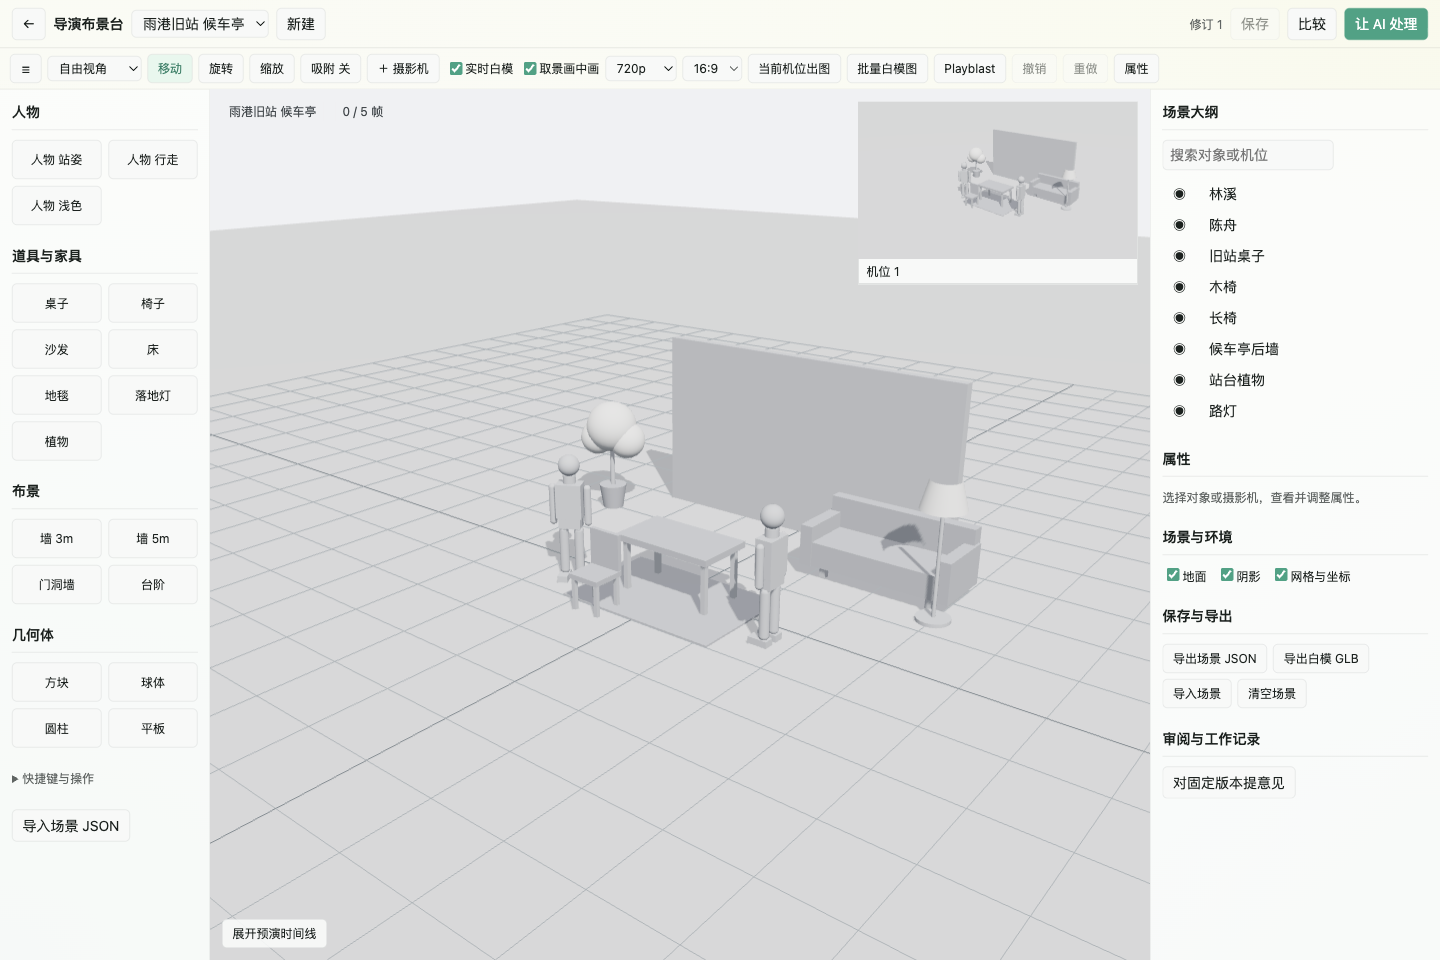
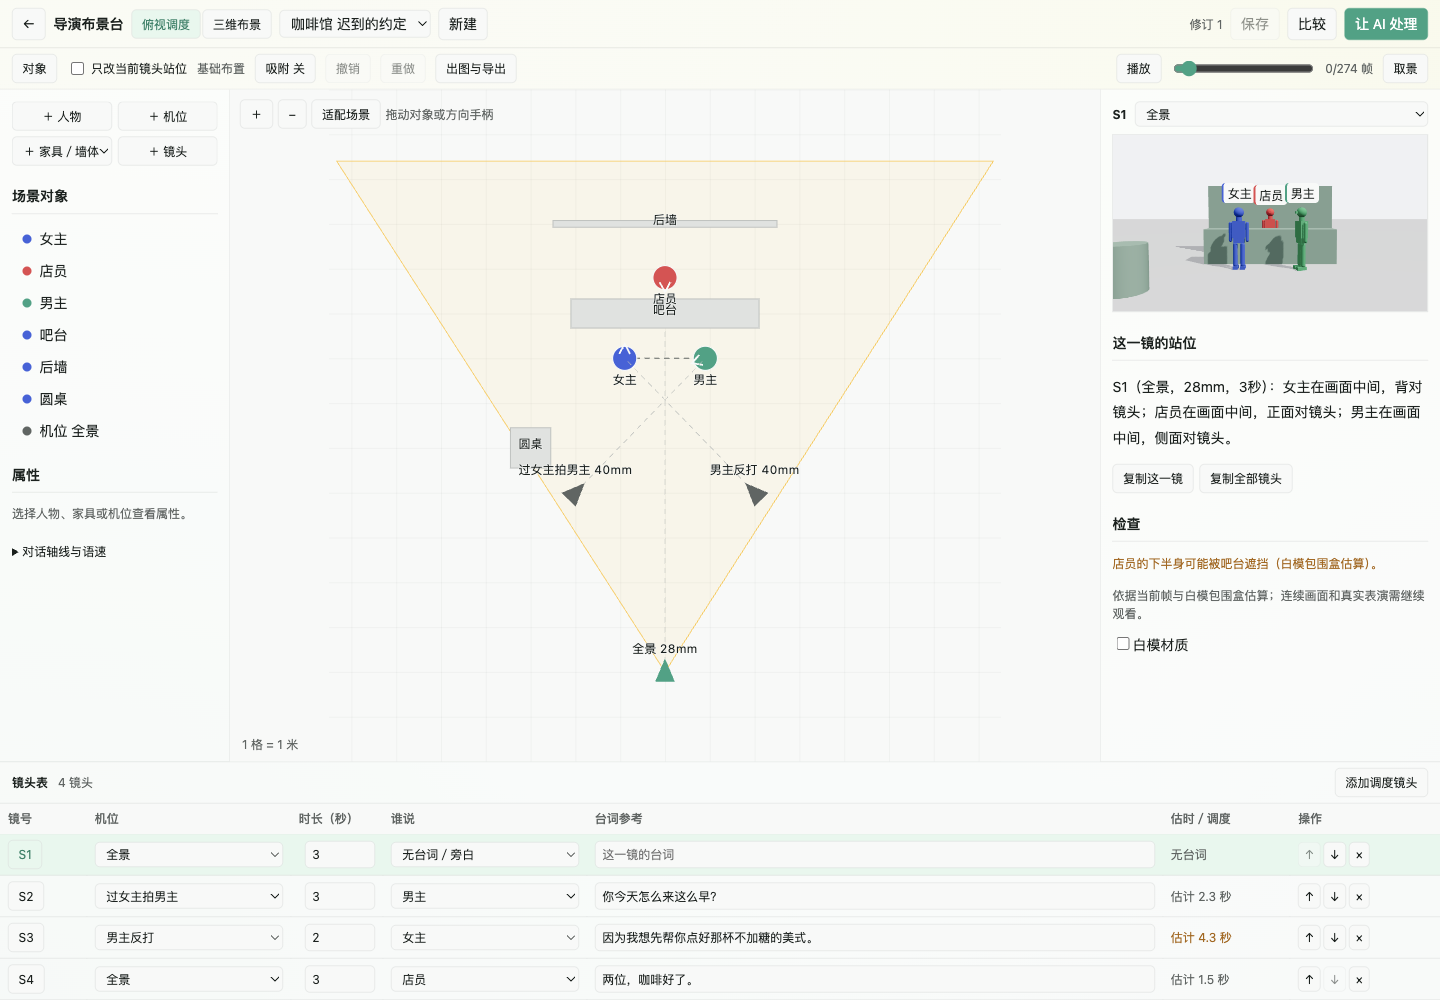
docs: publish Director Stage v0.2.0 in plugin center

diff --git a/apps/website/src/lib/plugins.ts b/apps/website/src/lib/plugins.ts
@@ -43,10 +43,10 @@ const editorial = [
   },
   {
     slug: 'director-stage', category: 'video',
-    summary: { 'zh-CN': '让 Agent 布置人物、家具与机位，用三维白模看清空间、构图和镜头节奏。', en: 'Ask your Agent to arrange people, props and cameras, then inspect space, framing and pacing in 3D previs.' },
+    summary: { 'zh-CN': '在同一场景联动俯视调度、三维取景和镜头台词，由 Agent 安排逐镜走位与节奏。', en: 'Connect a floor plan, 3D framing and shot dialogue in one scene; ask your Agent to arrange blocking and pacing per shot.' },
     use: { 'zh-CN': '对白走位、场景布置、机位比较、白模预演与工程参考', en: 'Dialogue blocking, set layout, camera comparisons, previs and reusable scene projects' },
-    request: { 'zh-CN': '重新发现河图已安装的导演布景台及当前作品能力，读取同包Skill、已有场景与固定来源。按我的目标安排人物站位、家具、机位、关键帧和镜头切换，保存后回读。固定计划并输出真实白模图、预演和可接续场景工程，检查画面与完整解码，再按固定版本意见返工并比较两版。正常操作通过CLI/MCP完成，不要求我先学三维操作；不自动调用付费模型或认可成片，未知先回读原操作。', en: 'Rediscover Director Stage and the actual capabilities for this work. Read its packaged Skill, existing scenes and fixed sources. Arrange people, props, cameras, keyframes and cuts for my goal, then save and read back. Fix a render plan and produce actual white-model images, previs and a reusable scene project. Inspect the images and full decoding, revise against fixed-version feedback and compare both versions. Use CLI/MCP without requiring me to learn 3D controls. Do not invoke paid models or approve a final film automatically; recover unknown operations first.' },
-    review: { 'zh-CN': '查看人物相对位置、遮挡和机位，播放白模预演。说出哪一帧、哪个人物或哪次切镜需要改变，让 Agent 沿固定场景继续；也可直接拖动、精确编辑和导出。', en: 'Inspect positions, occlusion and cameras, then watch the previs. Name a frame, person or cut for your Agent to revise from the fixed scene, or drag, edit and export it yourself.' },
+    request: { 'zh-CN': '重新发现河图已安装的导演布景台及当前作品能力，读取同包Skill、已有场景与固定来源。按我的目标安排人物站位、家具、机位、关键帧和镜头切换。局部走位绑定具体镜头，保留相邻镜头；检查台词估时、可能遮挡及明确轴线，保存后回读。固定计划并输出真实白模图、预演和可接续场景工程，检查画面与完整解码，再按固定版本意见返工并比较两版。正常操作通过CLI/MCP完成，不要求我先学三维操作；不自动调用付费模型或认可成片，未知先回读原操作。', en: 'Rediscover Director Stage and the actual capabilities for this work. Read its packaged Skill, existing scenes and fixed sources. Arrange people, props, cameras, keyframes and cuts. Bind local blocking to a shot and preserve neighboring shots; check estimated dialogue timing, possible occlusion and an explicit axis, then save and read back. Fix a render plan and produce actual white-model images, previs and a reusable scene project. Inspect the images and full decoding, revise against fixed-version feedback and compare both versions. Use CLI/MCP without requiring me to learn 3D controls. Do not invoke paid models or approve a final film automatically; recover unknown operations first.' },
+    review: { 'zh-CN': '在平面图查看站位，在三维取景中比较结果，沿镜头表检查台词和时长，播放白模预演。说出哪一帧、哪个人物或哪次切镜需要改变，让 Agent 沿固定场景继续；也可直接拖动、精确编辑和导出。', en: 'Inspect blocking on the floor plan and compare its 3D framing. Review dialogue and duration in the shot table, then watch previs. Name a frame, person or cut for your Agent to revise from the fixed scene, or drag, edit and export it yourself.' },
   },
   {
     slug: 'shanhai', category: 'templates',

diff --git a/apps/website/src/content/blog/en/creative-plugins.md b/apps/website/src/content/blog/en/creative-plugins.md
@@ -16,7 +16,7 @@ Hetu keeps the work foundation stable and lets specialized tools join when usefu
 
 [Novel Planner](/en/plugins/novel-planner/) applies that boundary to long-form writing. Review volume goals, themes, conflicts and detailed plots together, with links to characters, places and clues. The Agent organizes the structure while the author reads and edits through a volume list. Formal chapters, manuscripts and story settings reuse host capabilities. Its preview release provides a fixed runtime package and a specific validation scope.
 
-[Director Stage](/en/plugins/director-stage/) applies this approach to space and cameras. An Agent arranges people, props, cameras and keyframes; the author watches actual white-model previs and can ask, “Wait until he reaches the table before cutting to the close-up.” The scene, feedback and revisions remain part of the same work. A reusable project and a final image remain separate results.
+[Director Stage](/en/plugins/director-stage/) applies this approach to space and cameras. An Agent arranges people, props, cameras and keyframes; the author watches actual white-model previs and can ask, “Wait until he reaches the table before cutting to the close-up.” The floor plan, 3D framing and shot dialogue use one scene. “Let her turn only in shot three” becomes local blocking, preserving other shots. Timing estimates and geometric checks flag issues for review against actual previs. The scene, feedback and revisions remain part of the same work. A reusable project and a final image remain separate results.
 
 ## A canvas can be optional
 

diff --git a/apps/website/src/content/blog/zh-CN/creative-plugins.md b/apps/website/src/content/blog/zh-CN/creative-plugins.md
@@ -22,7 +22,7 @@
 
 自由也不意味着要求作者亲手搭建每个界面。你可以对 Agent 说：“只整理女主目前知道的人物关系，不能确定的先问我。”它发现当前可用工具，在获准范围里读取、整理、保存并回读。你回来检查，指出不对的连线，再接着调整。
 
-[导演布景台](/plugins/director-stage/)把同样的方法用于空间与镜头：Agent 安排人物、家具、机位和关键帧，作者观看真实白模预演，再说“等他走到桌边，再切近景”。场景、意见与新旧版本保留在同一作品中；可接续工程和最终画面仍分别判断。
+[导演布景台](/plugins/director-stage/)把同样的方法用于空间与镜头：Agent 安排人物、家具、机位和关键帧，作者观看真实白模预演，再说“等他走到桌边，再切近景”。平面图、三维取景与镜头台词表读取同一场景；“只让她在第三镜转身”保存为该镜的局部调度，不改其他镜头。台词估时与几何检查帮助发现节奏和遮挡问题，仍需观看实际预演。场景、意见与新旧版本保留在同一作品中；可接续工程和最终画面仍分别判断。
 
 亲自编辑始终可用，但不成为使用专业工具的门槛。作者承担创作判断，软件和 Agent 承担能够确定执行的操作。
 

diff --git a/apps/website/src/content/guides/en/plugins.md b/apps/website/src/content/guides/en/plugins.md
@@ -52,7 +52,7 @@ For example: “Qiao does not know Zhou’s identity yet. Change that connection
 
 Ask it to read back saved data. If an operation times out, recover the original operation rather than creating another graph.
 
-Director Stage shows 3D space, camera framing and white-model previs. Identify a person, camera or frame for the Agent to revise from a fixed scene. Dragging and numeric editing are optional. Previs does not establish final actor identity, materials or exact model reproduction.
+Director Stage connects a floor plan, actual 3D framing and shot dialogue in one scene. Change only shot three’s blocking while preserving neighboring shots; estimated dialogue timing, geometric occlusion and explicit axis checks flag issues for review. Identify a person, camera or frame for the Agent to revise from a fixed scene. Dragging and numeric editing are optional. Previs does not establish final actor identity, materials or exact model reproduction.
 
 ## 5. Let your Agent discover a newly installed plugin
 
